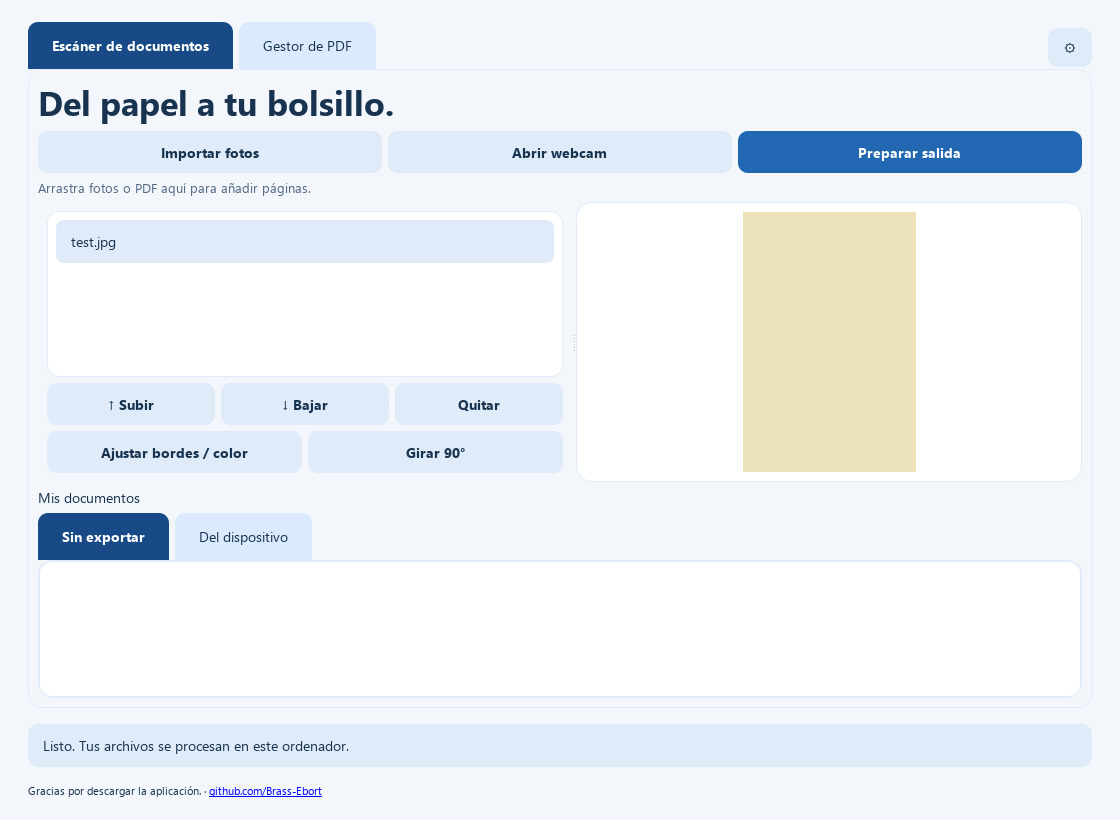
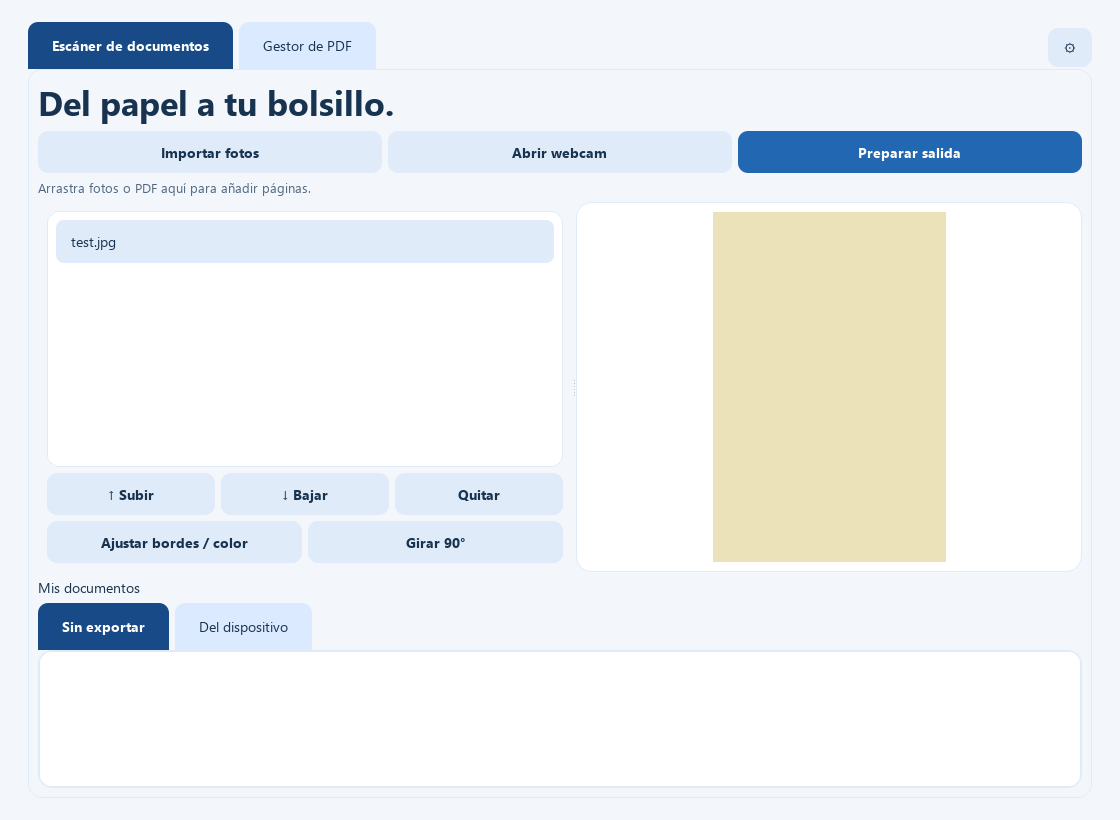
Add files via upload

diff --git a/desktop/v3.py b/desktop/v3.py
@@ -12,7 +12,7 @@ import uuid
 from pathlib import Path
 from types import SimpleNamespace
 
-from PySide6.QtCore import Qt, QSettings
+from PySide6.QtCore import Qt, QSettings, QLocale
 from PySide6.QtWidgets import (
     QWidget,
     QVBoxLayout,
@@ -53,7 +53,10 @@ class WindowV3(Window):
         settings = settings or QSettings(
             str(self.data_root / "preferencias.ini"), QSettings.IniFormat
         )
-        i18n.language = str(settings.value("language", "es"))
+        system_language = QLocale.system().name().split("_")[0]
+        i18n.language = str(settings.value("language", system_language))
+        if i18n.language not in i18n.CODES:
+            i18n.language = "en"
         super().__init__(settings)
         # Replace the temporary scan workspace with a persistent portable one.
         self.session.cleanup()
@@ -80,13 +83,8 @@ class WindowV3(Window):
         self.gear.setText("⚙")
         self.gear.setToolTip(i18n.tr("Configuración"))
         self.tabs.setCornerWidget(self.gear, Qt.TopRightCorner)
-        footer = QLabel(
-            'Gracias por descargar la aplicación.  ·  <a href="https://github.com/Brass-Ebort">github.com/Brass-Ebort</a>'
-        )
-        footer.setProperty("footer", True)
-        footer.setOpenExternalLinks(True)
-        footer.setStyleSheet("font-size:11px;")
-        outer.addWidget(footer)
+        # Sin cartel permanente: el progreso solo ocupa espacio durante el trabajo.
+        self.status.hide()
         self.refresh_library()
         self.scan_files.model().rowsMoved.connect(self.persist_session)
         self.scan_files.model().rowsRemoved.connect(self.persist_session)
@@ -195,9 +193,12 @@ class WindowV3(Window):
         row = QHBoxLayout()
         row.addWidget(self.button("Selecciona archivos", self.add_tools))
         row.addStretch()
-        row.addWidget(QLabel(i18n.tr("Formato de papel")))
+        self.pdf_format_label = QLabel(i18n.tr("Formato de papel"))
+        row.addWidget(self.pdf_format_label)
         self.pdf_format = self.format_box()
         row.addWidget(self.pdf_format)
+        self.pdf_format.hide()
+        self.pdf_format_label.hide()
         layout.addLayout(row)
         self.tool_files = self.file_list()
         layout.addWidget(self.tool_files, 1)
@@ -208,7 +209,9 @@ class WindowV3(Window):
     # Vacía la selección anterior para no mezclar tipos de archivo entre operaciones.
     def operation_changed(self):
         self.tool_files.clear()
-        self.pdf_format.setEnabled(self.operation.currentIndex() == 3)
+        images = self.operation.currentIndex() == 3
+        self.pdf_format.setVisible(images)
+        self.pdf_format_label.setVisible(images)
 
     # Actualiza el manifiesto de páginas con reemplazo atómico para poder reabrir la sesión.
     def persist_session(self, *_):
@@ -589,6 +592,7 @@ class WindowV3(Window):
         self.tabs.setEnabled(False)
         self.gear.setEnabled(False)
         self.status.setText(i18n.tr("Procesando…"))
+        self.status.show()
         self.worker = Worker(fn)
         self.worker.progress.connect(self.status.setText)
         # Deliver the result only after QThread has stopped, allowing chained jobs.
@@ -598,6 +602,7 @@ class WindowV3(Window):
 
         def finished():
             self.finish_job()
+            self.status.hide()
             if "value" in result:
                 (on_success or self.completed)(result["value"])
 
@@ -618,7 +623,23 @@ class WindowV3(Window):
         )
         menu.addAction(i18n.tr("Idioma"), self.choose_language)
         menu.addAction(i18n.tr("¿Cómo funciona?"), self.help)
+        menu.addSeparator()
+        menu.addAction(i18n.tr("Información adicional"), self.additional_info)
         menu.exec(self.gear.mapToGlobal(self.gear.rect().bottomLeft()))
+
+    def additional_info(self):
+        """Versión y agradecimiento en una ventana accesible desde Configuración."""
+        dialog = QDialog(self)
+        dialog.setWindowTitle(i18n.tr("Información adicional"))
+        layout = QVBoxLayout(dialog)
+        layout.setContentsMargins(24, 24, 24, 24)
+        layout.setSpacing(16)
+        layout.addWidget(QLabel("FolioScan · v3.2"))
+        layout.addWidget(QLabel(i18n.tr("Gracias por descargar la aplicación.")))
+        link = QLabel('<a href="https://github.com/Brass-Ebort">github.com/Brass-Ebort</a>')
+        link.setOpenExternalLinks(True)
+        layout.addWidget(link)
+        dialog.exec()
 
     # Persiste el idioma seleccionado y actualiza la interfaz con el catálogo local.
     def choose_language(self):

diff --git a/desktop/test_v3.py b/desktop/test_v3.py
@@ -18,6 +18,44 @@ from app import configure_fonts
 
 
 class V3Test(unittest.TestCase):
+    def test_v32_contextual_format_and_system_language(self):
+        from unittest.mock import patch
+        from PySide6.QtCore import QLocale, QTimer
+        from PySide6.QtWidgets import QDialog
+        with tempfile.TemporaryDirectory() as temp:
+            with patch("v3.QLocale.system", return_value=QLocale("fr_FR")):
+                window = WindowV3(data_root=Path(temp))
+            self.assertEqual(i18n.language, "fr")
+            window.show()
+            window.tabs.setCurrentIndex(1)
+            self.app.processEvents()
+            self.assertTrue(window.status.isHidden())
+            for index in range(4):
+                window.operation.setCurrentIndex(index)
+                self.assertEqual(window.pdf_format.isHidden(), index != 3)
+                self.assertEqual(window.pdf_format_label.isHidden(), index != 3)
+            captured = []
+            def inspect_dialog():
+                for widget in self.app.topLevelWidgets():
+                    if isinstance(widget, QDialog) and widget.isVisible():
+                        captured.extend(label.text() for label in widget.findChildren(QLabel))
+                        widget.accept()
+            QTimer.singleShot(50, inspect_dialog)
+            window.additional_info()
+            self.assertIn("FolioScan · v3.2", captured)
+            window.settings.setValue("language", "es")
+            window.close()
+            with patch("v3.QLocale.system", return_value=QLocale("fr_FR")):
+                reopened = WindowV3(data_root=Path(temp))
+            self.assertEqual(i18n.language, "es")
+            reopened.close()
+        with tempfile.TemporaryDirectory() as temp:
+            with patch("v3.QLocale.system", return_value=QLocale("de_DE")):
+                fallback = WindowV3(data_root=Path(temp))
+            self.assertEqual(i18n.language, "en")
+            fallback.close()
+        i18n.language = "es"
+
     @classmethod
     def setUpClass(cls):
         cls.app = QApplication.instance() or QApplication([])

diff --git a/desktop/app.py b/desktop/app.py
@@ -743,10 +743,13 @@ class Window(QMainWindow):
         palette.setColor(QPalette.Button, QColor(soft))
         palette.setColor(QPalette.ButtonText, QColor(ink))
         palette.setColor(QPalette.Highlight, QColor(accent))
+        palette.setColor(QPalette.Link, QColor(accent))
+        palette.setColor(QPalette.LinkVisited, QColor(accent))
         palette.setColor(
             QPalette.HighlightedText, QColor("#101B2B" if dark else "white")
         )
         QApplication.instance().setPalette(palette)
+        arrow = (ASSETS / ("arrow-dark.png" if dark else "arrow-light.png")).as_posix()
         self.setStyleSheet(
             f"""
             QWidget {{font-family:'Segoe UI';font-size:14px;color:{ink};}}
@@ -760,7 +763,10 @@ class Window(QMainWindow):
             QPushButton:hover {{border:1px solid {accent};}}
             QPushButton:disabled {{color:{muted};}}
             QPushButton#primary {{background:{accent};color:{'#101B2B' if dark else '#FFFFFF'};}}
-            QComboBox {{background:{card};border:1px solid {soft};border-radius:8px;padding:10px;min-width:90px;}}
+            QComboBox {{background:{card};border:1px solid {soft};border-radius:8px;padding:10px 36px 10px 12px;min-width:90px;}}
+            QComboBox::drop-down {{subcontrol-origin:padding;subcontrol-position:top right;width:30px;border:0;border-left:1px solid {soft};border-top-right-radius:8px;border-bottom-right-radius:8px;background:{soft};}}
+            QComboBox::down-arrow {{image:url("{arrow}");width:16px;height:16px;}}
+            QComboBox QAbstractItemView {{background:{card};color:{ink};selection-background-color:{soft};border:1px solid {soft};padding:4px;}}
             QListWidget {{background:{card};border:1px solid {soft};border-radius:12px;padding:8px;}}
             QListWidget::item {{padding:12px;border-radius:8px;}}
             QListWidget::item:selected {{background:{soft};color:{ink};}}

diff --git a/desktop/smoke.py b/desktop/smoke.py
@@ -43,6 +43,15 @@ def run(report_path):
             app.processEvents()
             assert window.windowTitle() == 'FolioScan'
             assert window.library_tabs.count() == 2
+            assert window.status.isHidden()
+            window.tabs.setCurrentIndex(1)
+            for index in range(4):
+                window.operation.setCurrentIndex(index)
+                assert window.pdf_format.isHidden() == (index != 3)
+            window.operation.setCurrentIndex(0)
+            from app import ASSETS
+            assert (ASSETS / 'arrow-dark.png').is_file()
+            assert (ASSETS / 'arrow-light.png').is_file()
             # La distribución final debe conservar las zonas de arrastre y el importador.
             assert window.accept_scan_drop([image,root/'a.pdf'])
             imported=core.import_scan_files([image,root/'merged.pdf'],root/'data/Sesion')
